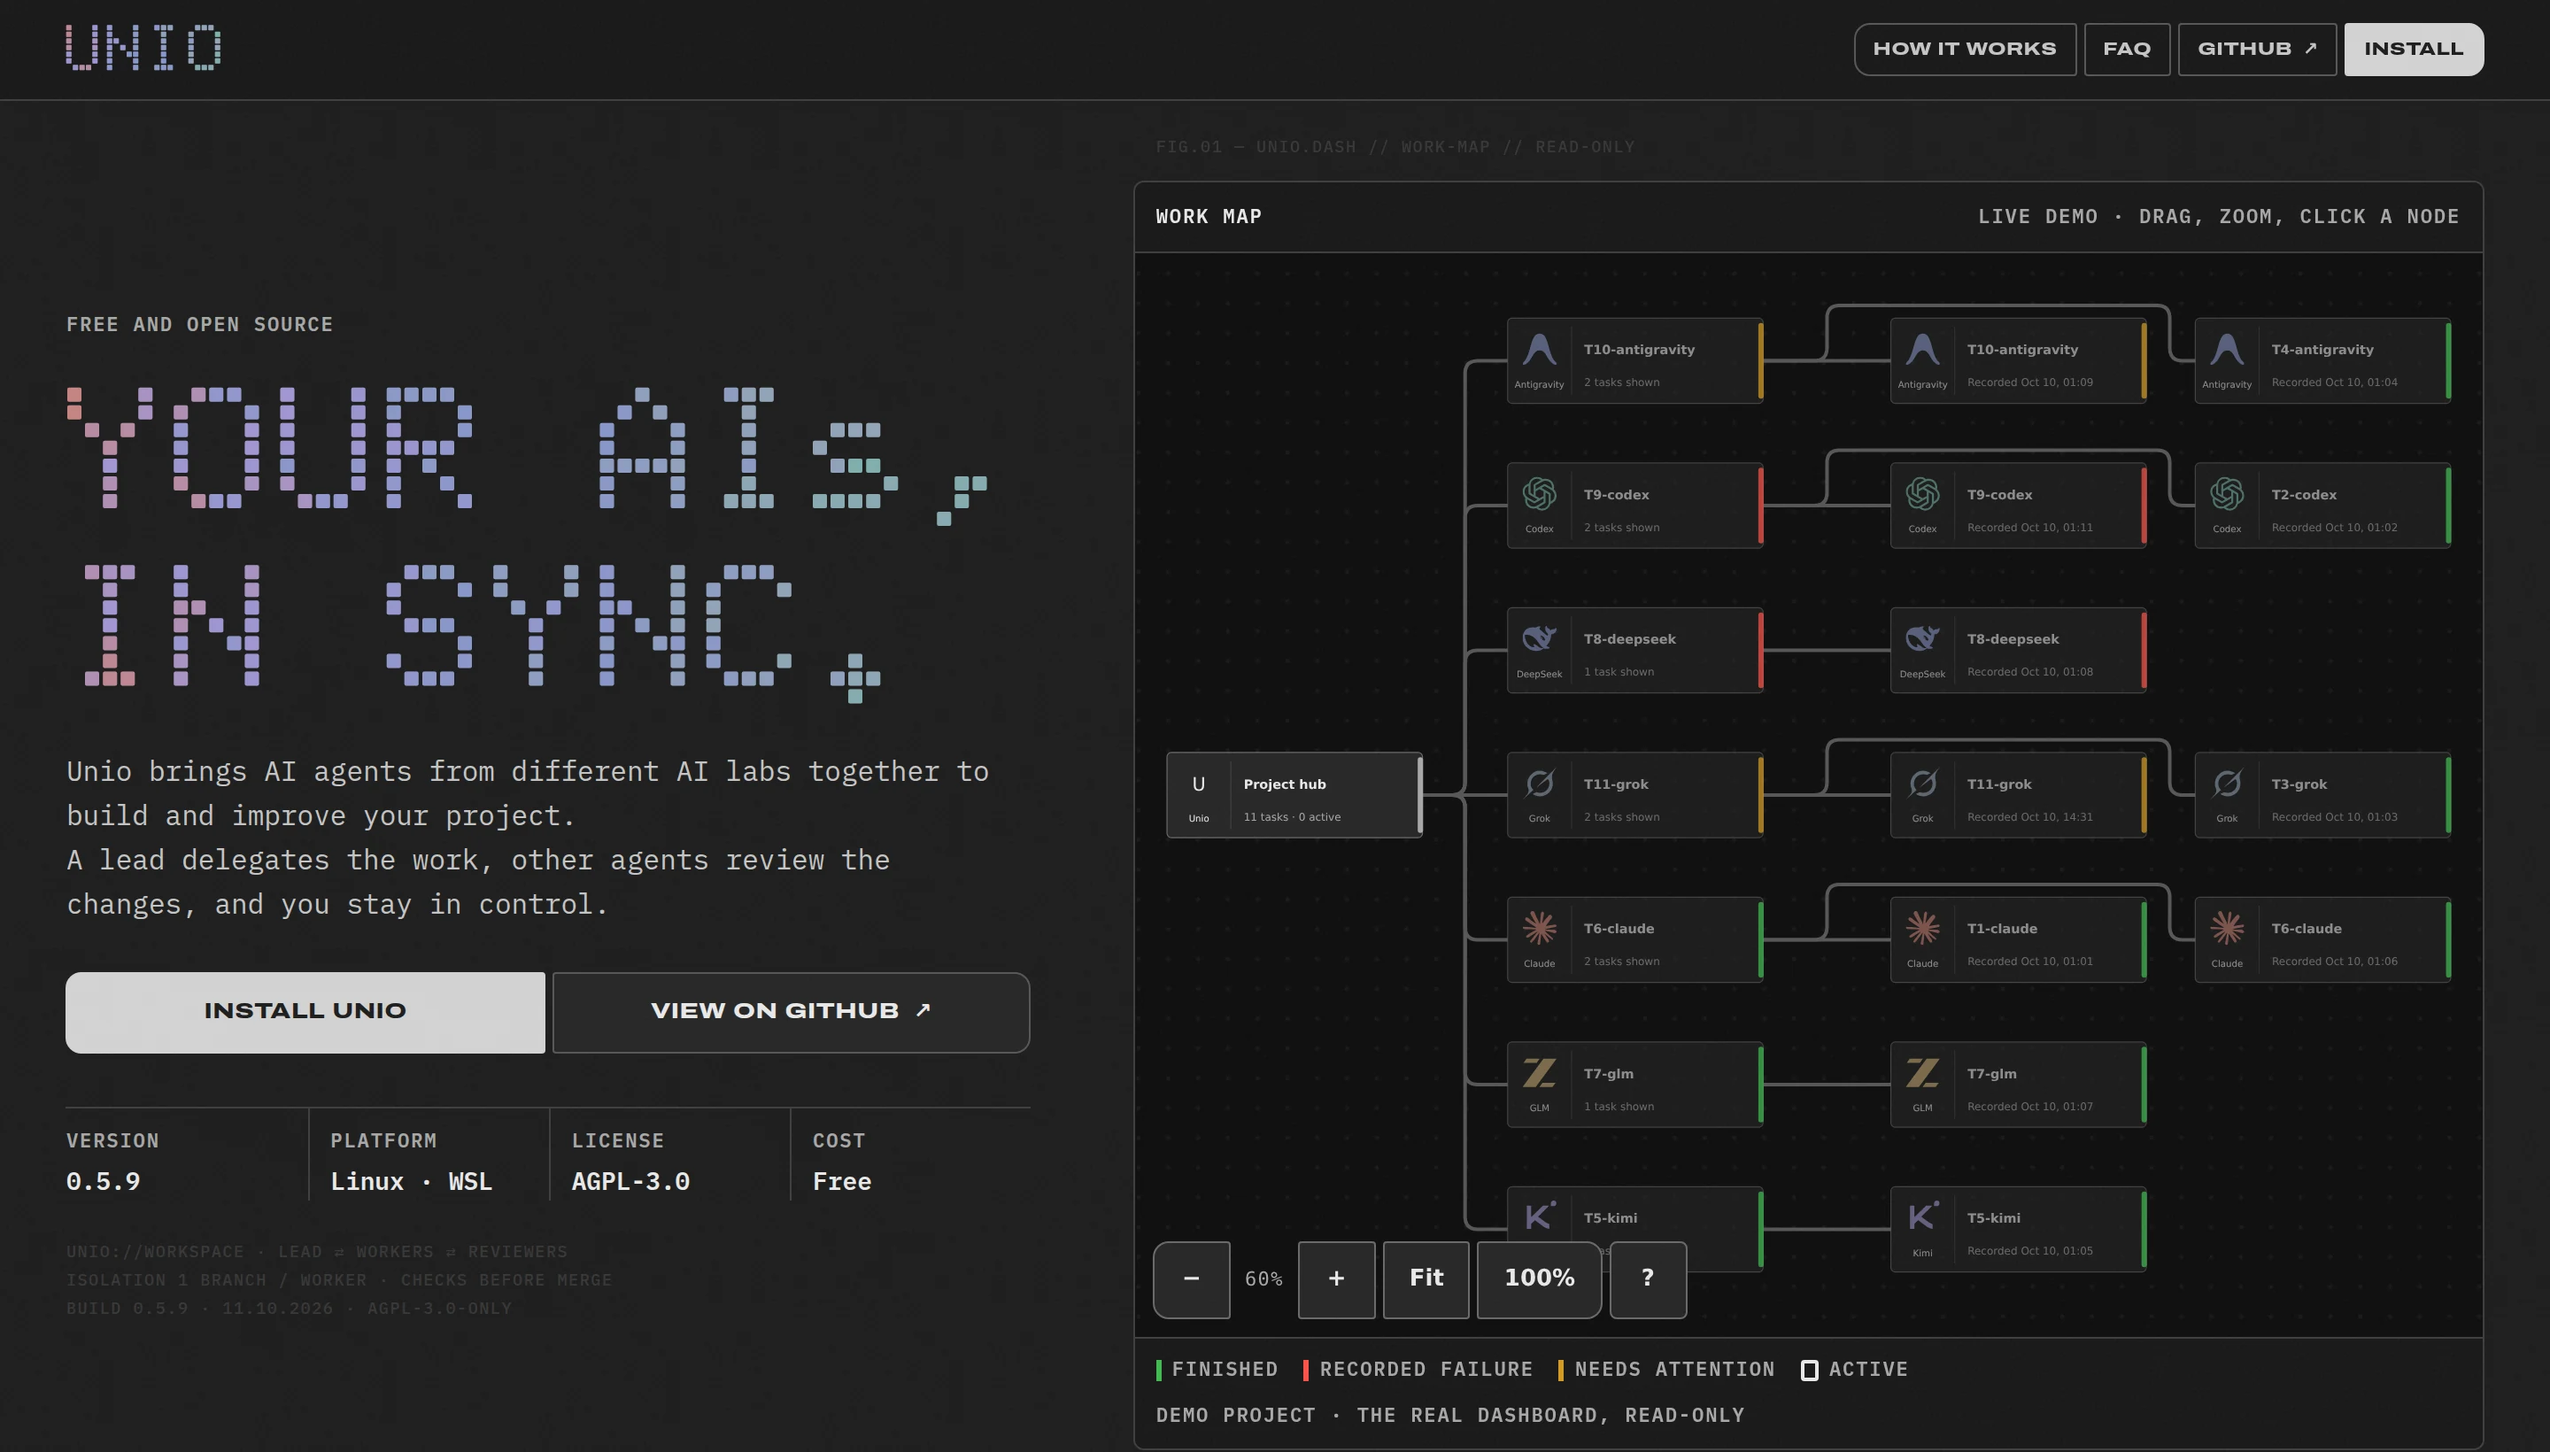
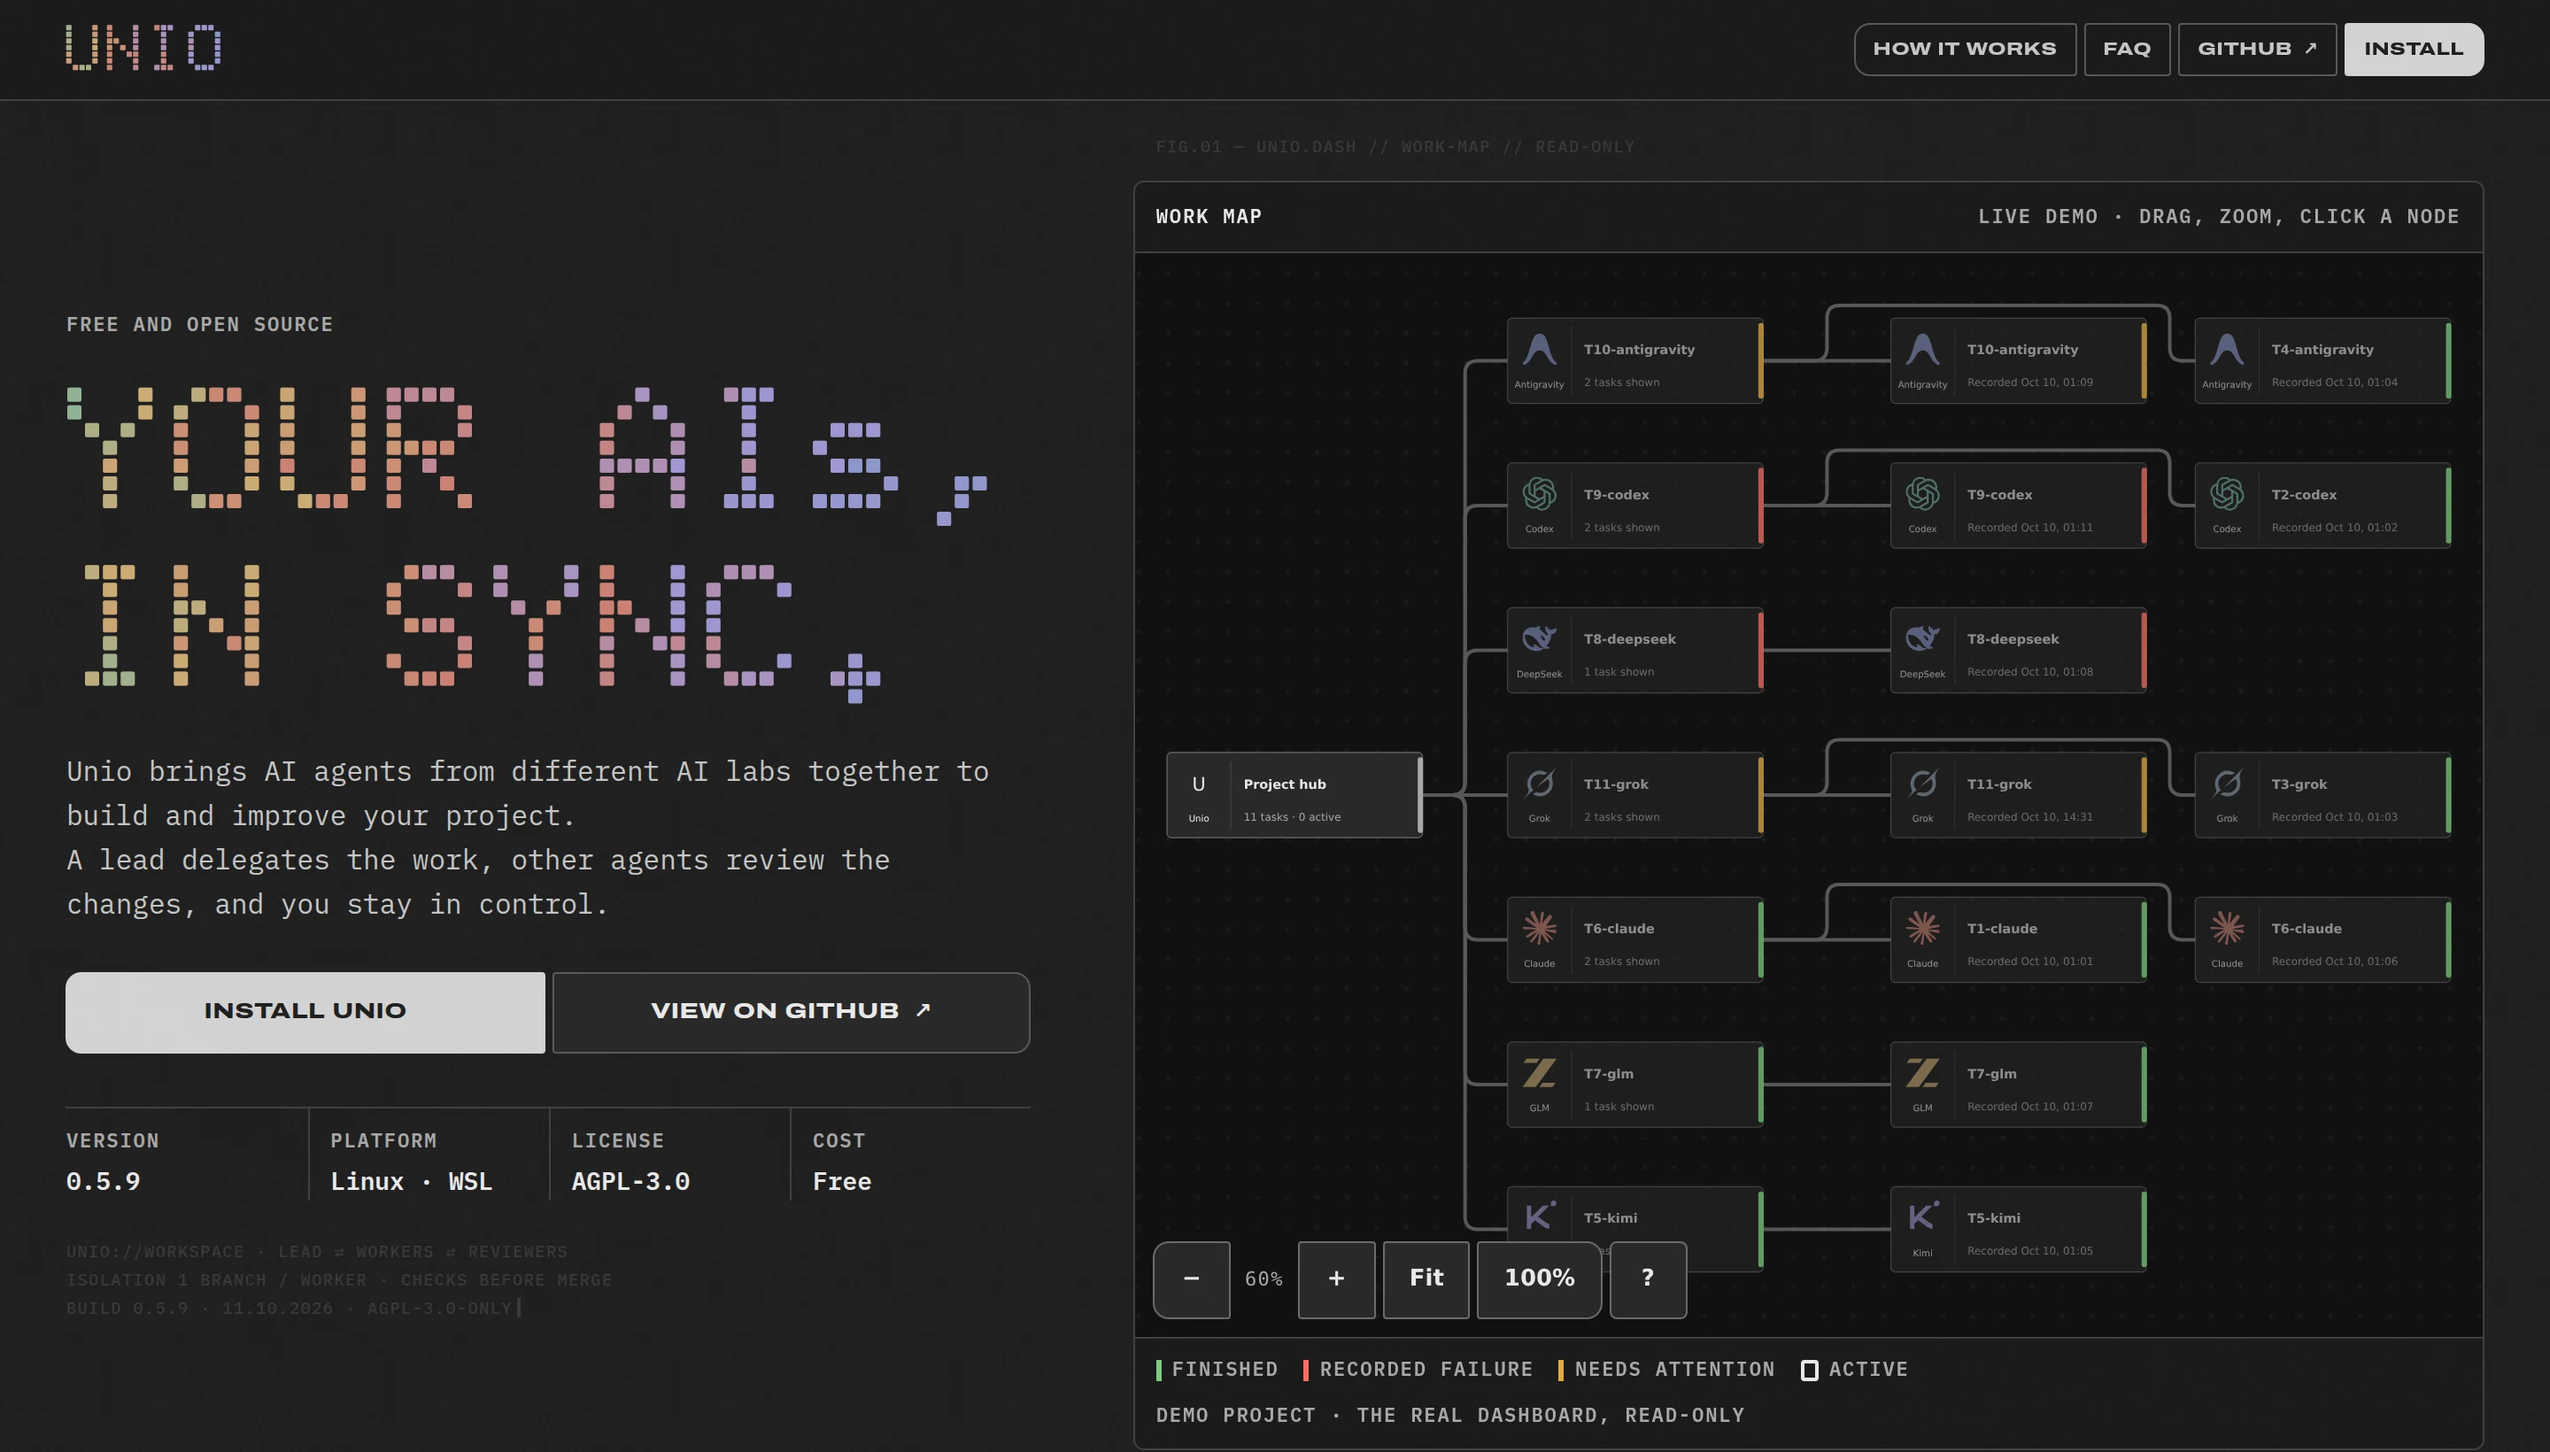
Status colors: green for finished, the brand's rust and mustard for failed and needs attention
The work map, the task cards and the website's demo used a bright,
off-palette red, green and yellow. They now use green, the Cradle rust and
the Cradle mustard, at one intensity and one perceived brightness (OKLCH),
so that none of the three stands out:

- dark: finished #7acb7d, failed #f86b60, needs attention #e1aa40
- light: finished #357039, failed #9e2d26, needs attention #7e5908

The red sits a little lower in lightness with more chroma, because a
saturated red already looks brighter. docs/BRAND.md records the values,
the installer carries the re-embedded dashboard, and the README
screenshots are re-captured in the new colors.

diff --git a/bridge/activity.css b/bridge/activity.css
@@ -43,9 +43,14 @@
   --text-chip: #363636;
   --bg-chip-warn: #e0e0e0;
   --text-chip-warn: #353535;
-  --map-passed: #1a7f37;
-  --map-failed: #cf222e;
-  --map-attention: #9a6700;
+  /* status colors: green = finished, the brand's rust = failed and its
+     mustard = needs attention, at one intensity and one perceived
+     brightness so none of the three stands out (OKLCH L 0.49 on light,
+     0.77 on dark; the red sits a little lower, L 0.47 / 0.70, with more
+     chroma, because a saturated red already looks brighter) */
+  --map-passed: #357039;
+  --map-failed: #9e2d26;
+  --map-attention: #7e5908;
 }
 
 [data-theme="light"] {
@@ -93,9 +98,9 @@
   --text-chip: #c4c4c4;
   --bg-chip-warn: #383838;
   --text-chip-warn: #dddddd;
-  --map-passed: #3fb950;
-  --map-failed: #f85149;
-  --map-attention: #d29922;
+  --map-passed: #7acb7d;
+  --map-failed: #f86b60;
+  --map-attention: #e1aa40;
 }
 
 body {
@@ -932,9 +937,9 @@ input:hover, textarea:hover, .map-controls select:hover, #theme-selector:hover {
     --text-chip: #c4c4c4;
     --bg-chip-warn: #383838;
     --text-chip-warn: #dddddd;
-    --map-passed: #3fb950;
-    --map-failed: #f85149;
-    --map-attention: #d29922;
+    --map-passed: #7acb7d;
+    --map-failed: #f86b60;
+    --map-attention: #e1aa40;
     --t-rust: #cb7f72;
     --t-mustard: #caaa72;
     --t-sea: #74b4a5;

diff --git a/docs/BRAND.md b/docs/BRAND.md
@@ -151,8 +151,13 @@ Dark charcoal grays, no accent color. Website tokens (`:root` in
 | `--ghost` | `#363636` | Readouts: present, but almost part of the background |
 | `--on` / `--on-text` | `#d2d2d2` / `#1c1c1c` | Selected / primary (inverted) |
 
-Status colors are semantic only and always paired with text: passed
-`#3fb950`, failed `#f85149`, needs attention `#d29922`.
+Status colors are green for finished and the Cradle rust and mustard for
+failed and needs attention, at one intensity and one perceived brightness so
+that none of the three stands out, and always paired with text: finished
+`#7acb7d`, failed `#f86b60`, needs attention `#e1aa40` on dark;
+`#357039`, `#9e2d26`, `#7e5908` on light. Green and mustard share OKLCH
+lightness 0.77 (dark) and 0.49 (light); the red sits a little lower (0.70 and
+0.47) with more chroma, because a saturated red already looks brighter.
 
 **Agent tones** (muted, from the owner's game-UI reference "The Cradle"), one
 per agent: its tile, its dots in the animated U, the sync-bus nodes.
